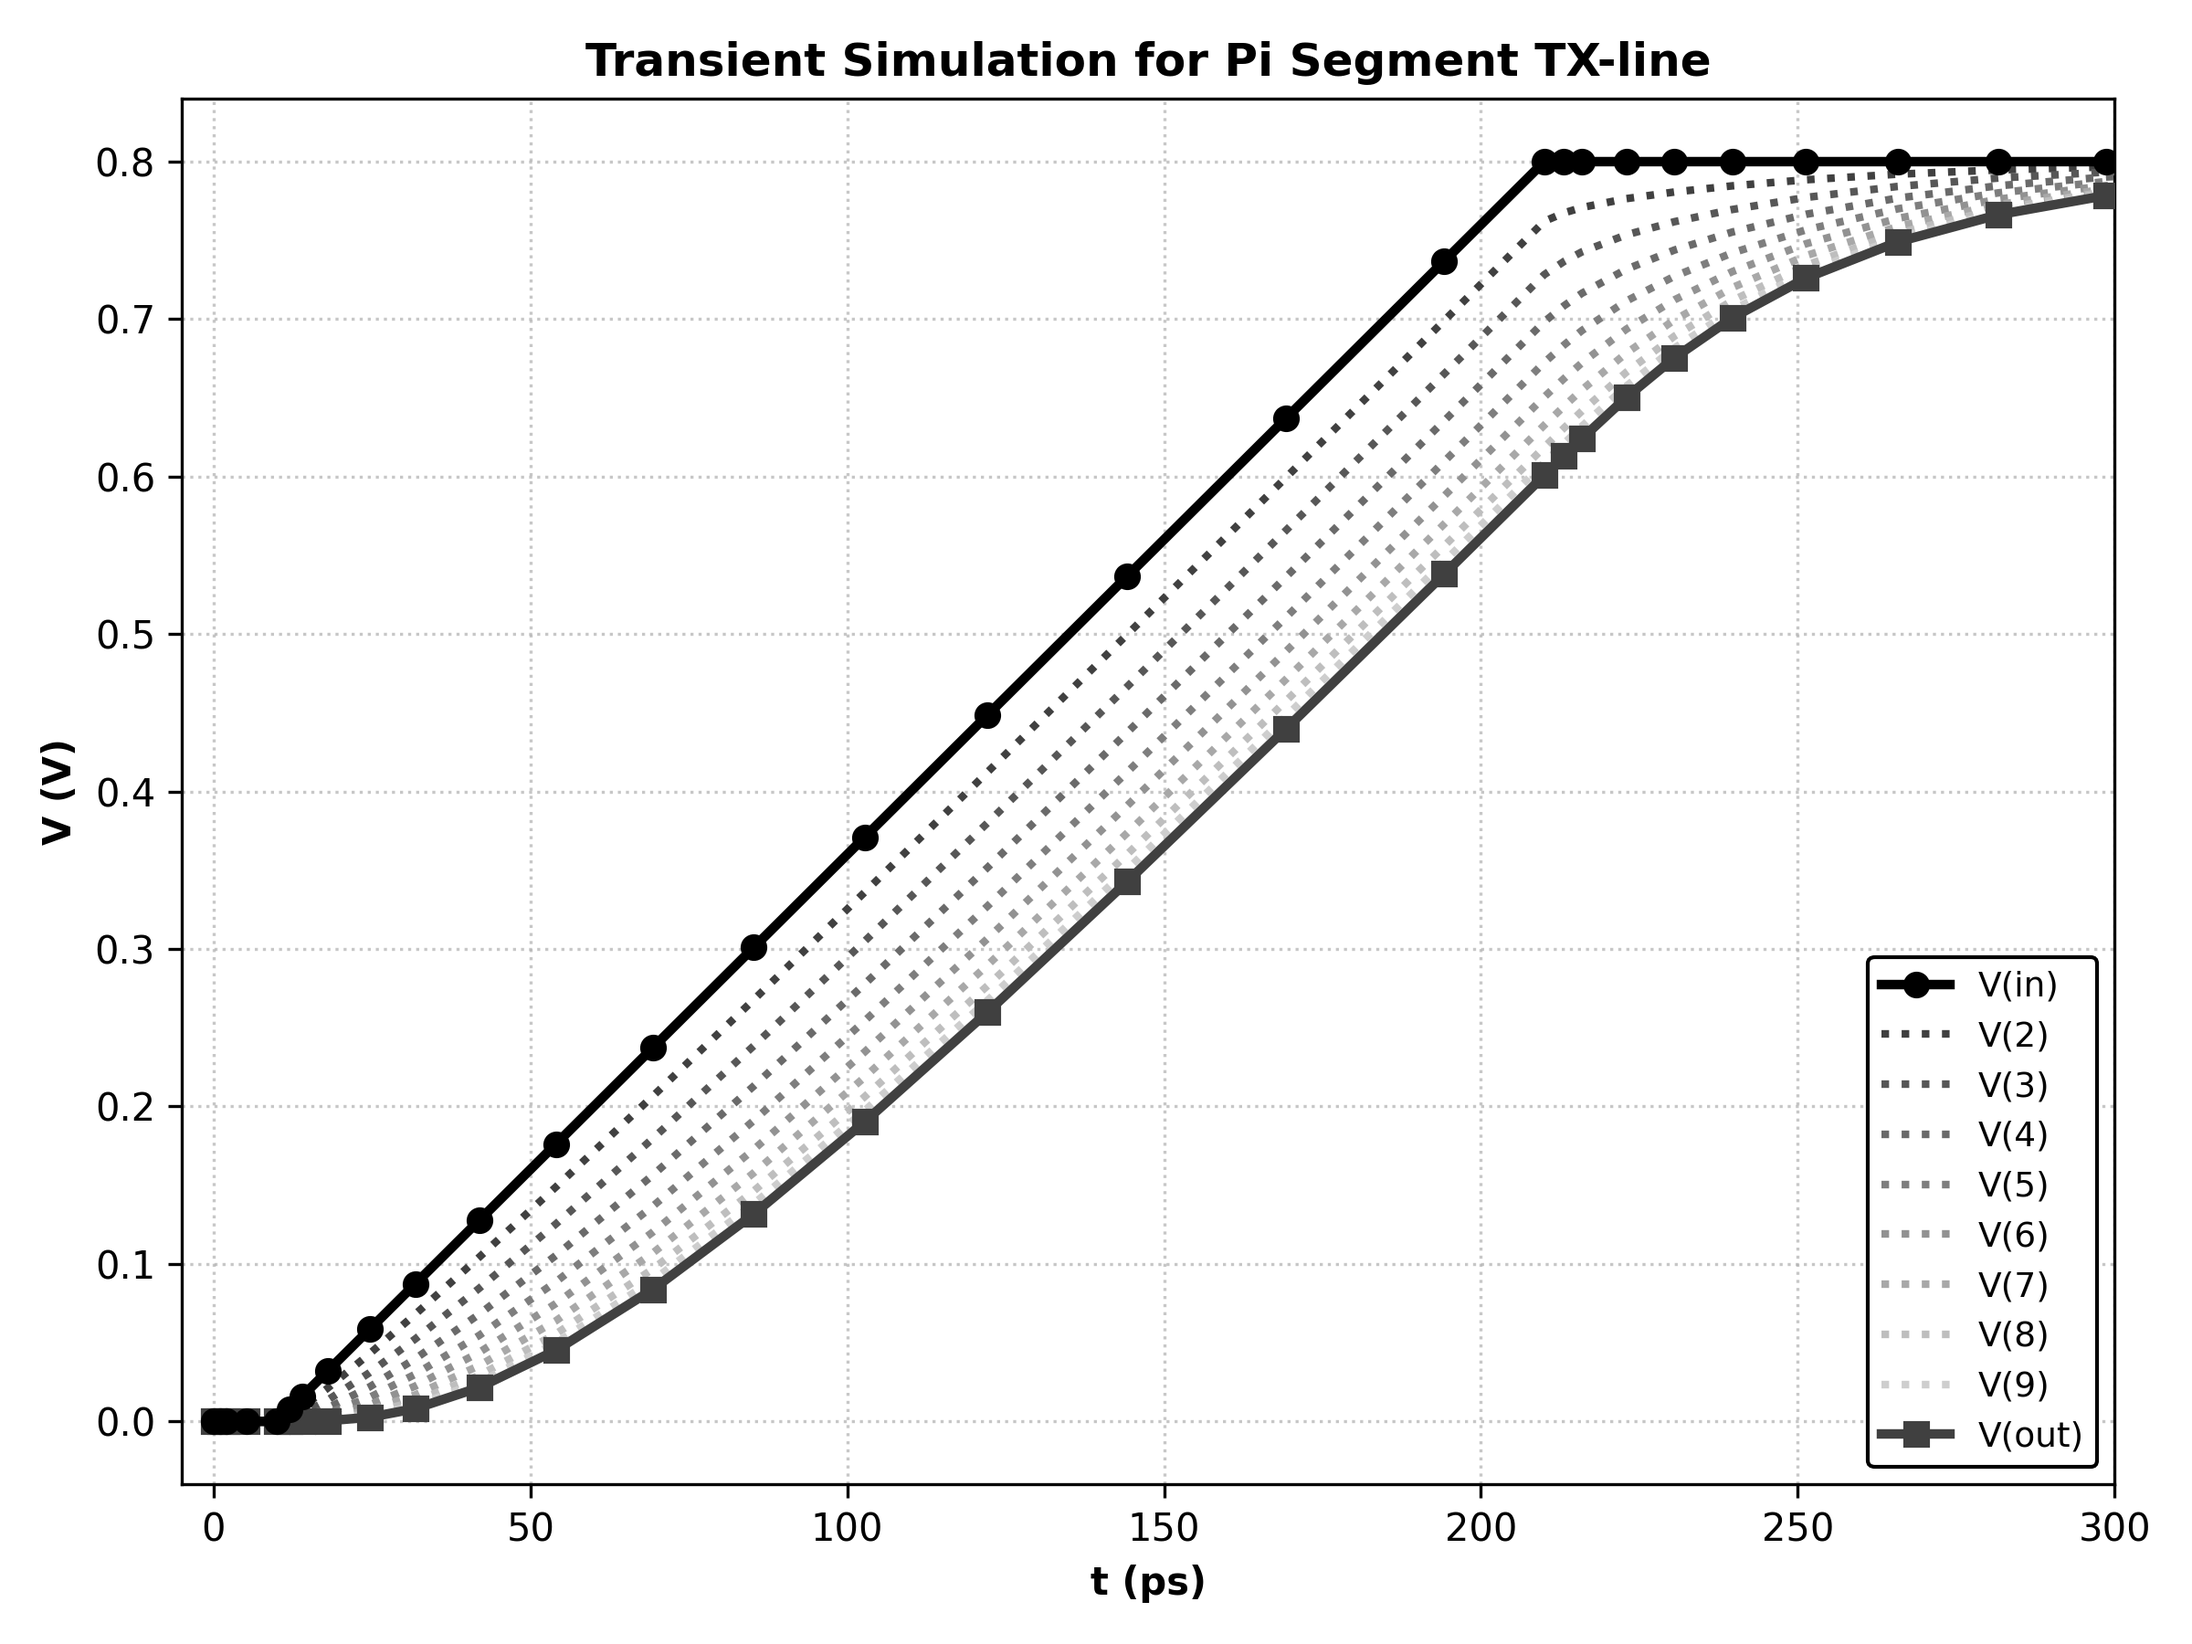
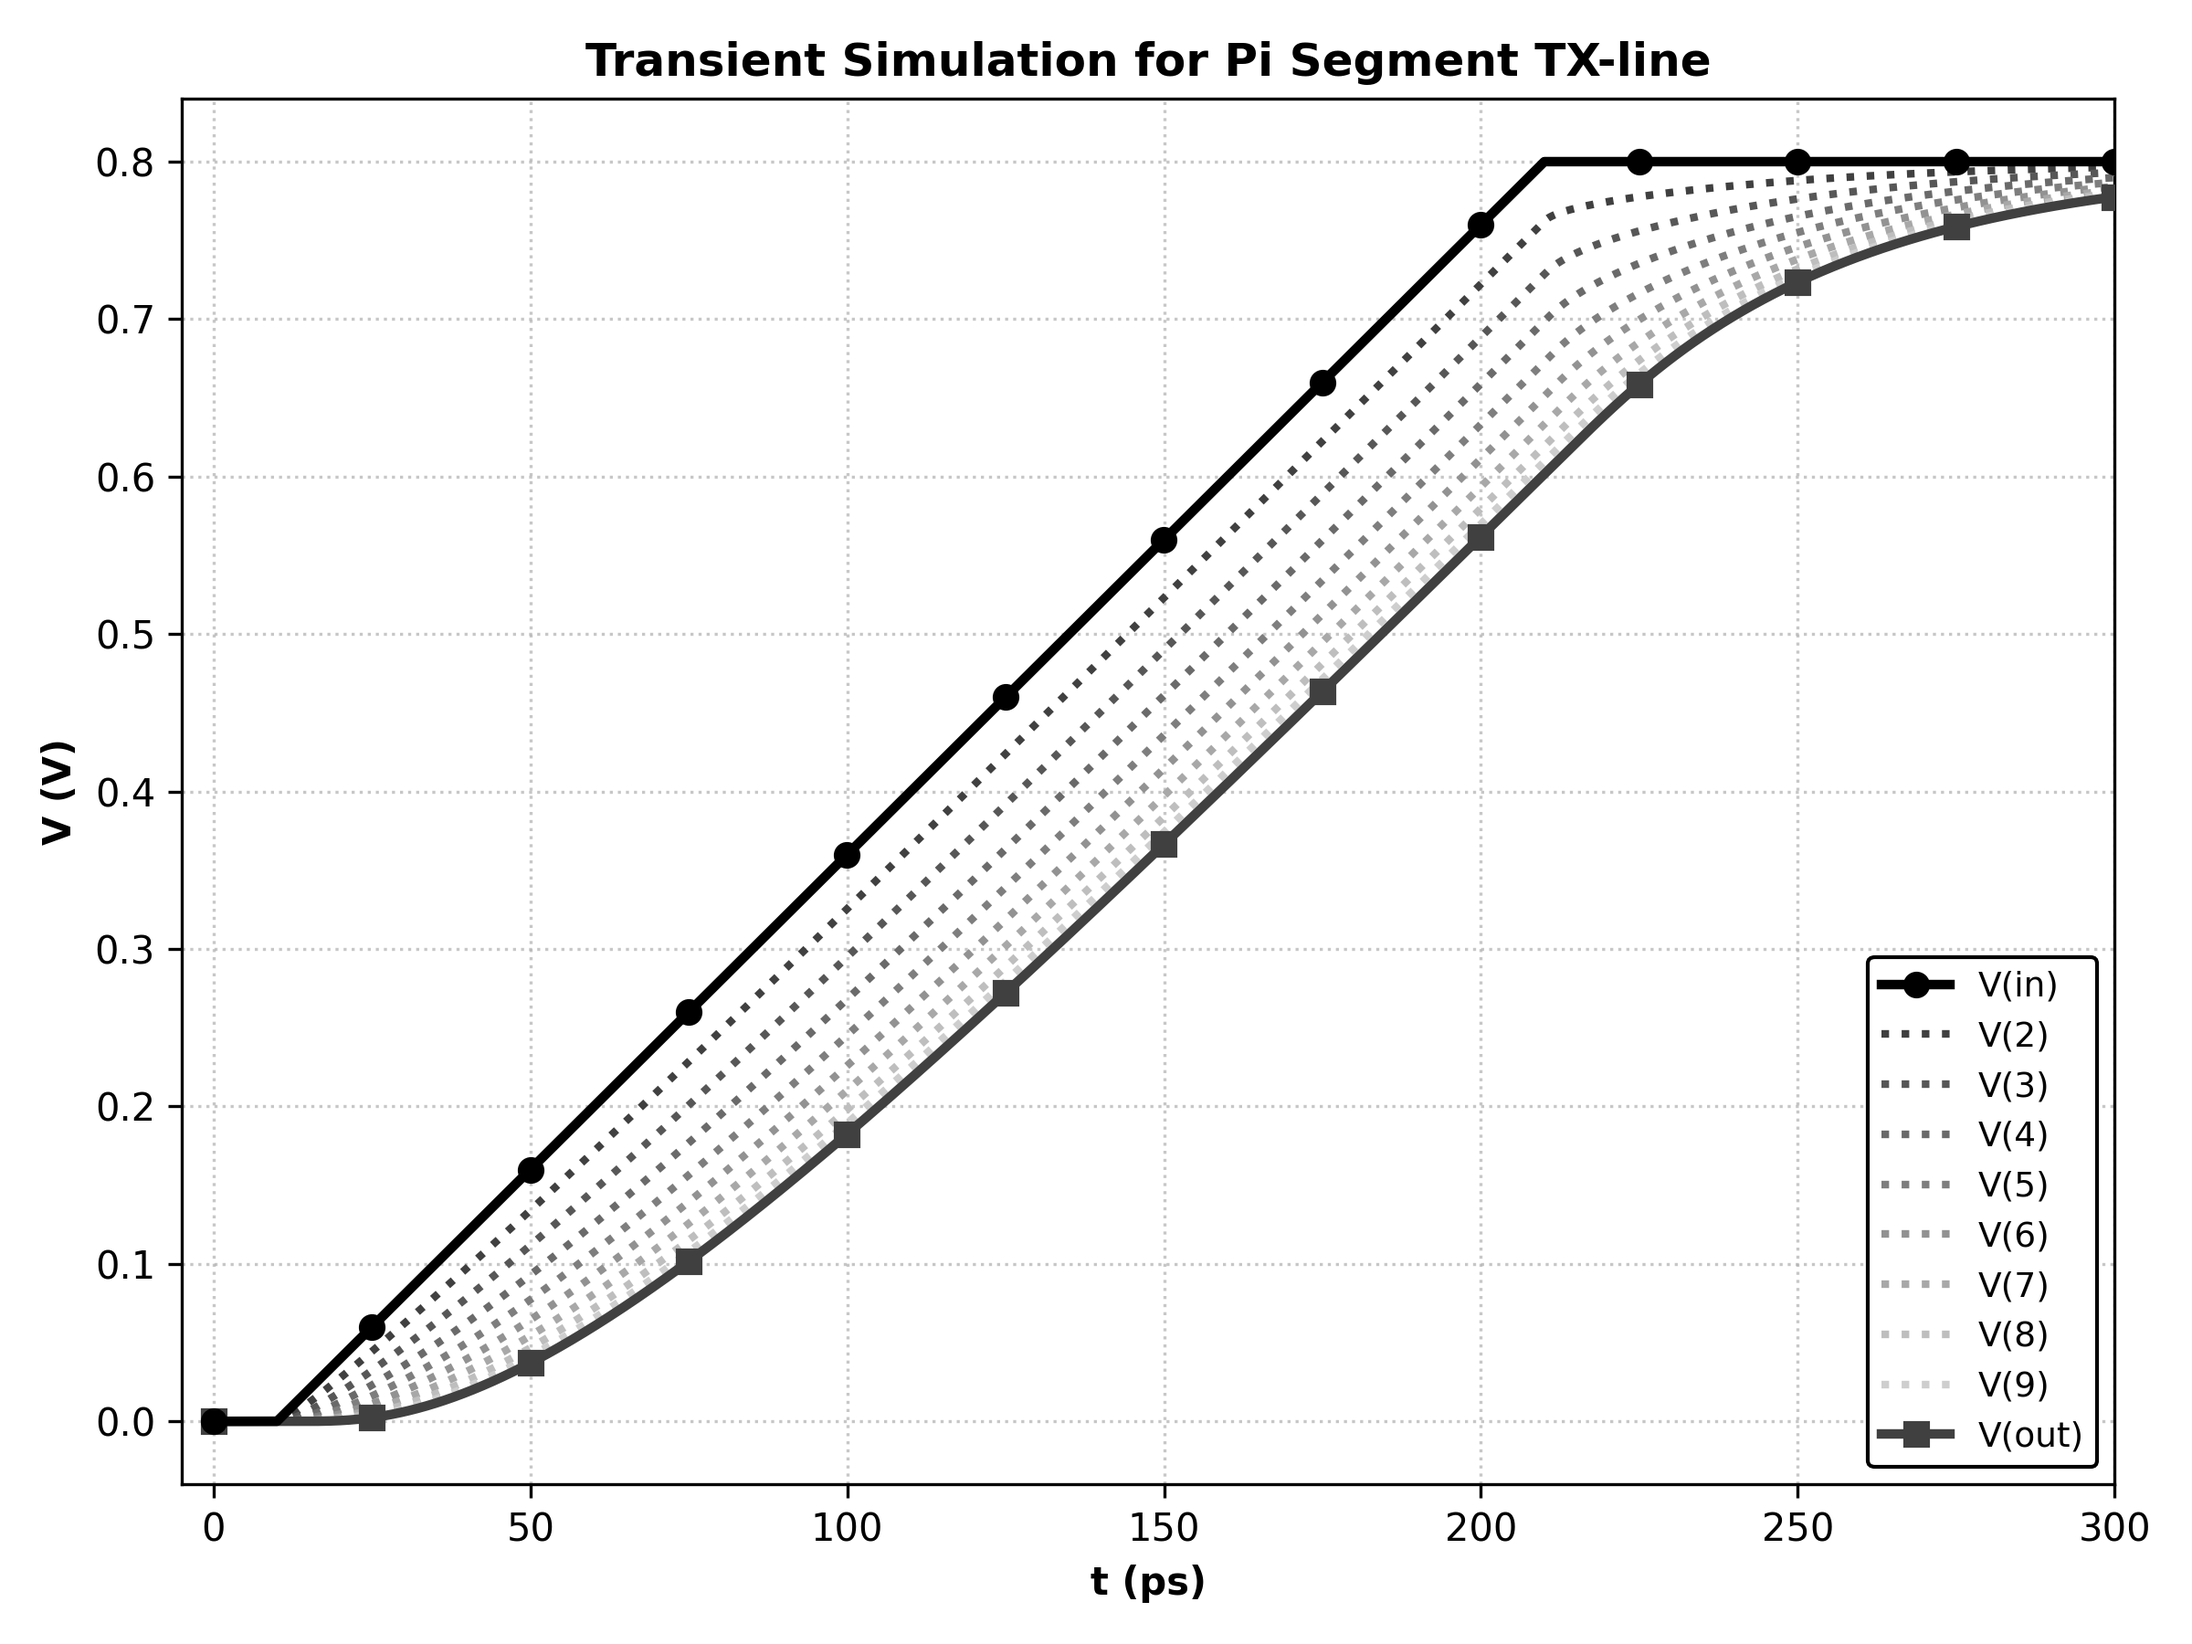
added exercise 7.5

diff --git a/tx_builer.py b/tx_builer.py
@@ -37,15 +37,22 @@ class tx_builder:
 
         self.n_list = list(range(1, n_max+1))
         self.df = pd.DataFrame(columns=['delay', 'temper', 'alter#'])
+        self.tr_df = pd.DataFrame(columns=['delay', 'temper', 'alter#'])
         self.tran_df = None
 
         for dir in ["logs", "graphs", "data", "md", "sp"]:
             pl.Path(dir).mkdir(parents=True, exist_ok=True)
         pass
 
-    def build_deck(self, n): #max in ps
+    def build_deck(self, n=None, rise_time=None, max_sim_time=None): #max in ps
+        if rise_time==None:
+            rise_time = self.tr # keep this for fixed tr
+        if n == None:
+            n = 10 #keep this for fixed n
+        if max_sim_time==None:
+            max_sim_time = self.max_time #<--------------------only have it change if updated by tr sweep
         header = f"""* TX-line {self.type} {n} segments
-V1 in 0 PULSE(0 0.8 10p {self.tr}p 5.7p 1600p 1600p)
+V1 in 0 PULSE(0 0.8 10p {rise_time}p 5.7p {max_sim_time}p {max_sim_time}p)
 .ic v(in)=0
         """
         
@@ -83,13 +90,13 @@ R1 mid out r='R/2'
                 subckt_out = "out"
             tx += f"X{i} {subckt_in} {subckt_out} 0 {self.type} R={seg_R} C={seg_C}\n"
 
-        tran = f".tran 0.001p {self.max_time}p\n"
+        step_size = max(0.01, max_sim_time / 10000)
+        tran = f".tran {step_size}p {max_sim_time}p\n"
         meas = f".meas tran delay trig v(in) val={self.v_trig} rise=1 targ v(out) val={self.v_trig} rise=1\n"
         
         footer = f"""
 .option post=2 
-* method from spk notes
-.option method=gear    
+.option delmax=0.01p  
 *tighter tolerance
 .option reltol=1e-6    
 .option absv=1e-6      
@@ -99,6 +106,43 @@ R1 mid out r='R/2'
         with open(self.sp_path, 'w') as sp:
             print(spice_str, file=sp)
         return
+
+    def get_delay_per_tr(self):
+        #build deck should now take in tr as a parameter
+        min_t = 0.1 #.1 ps
+        max_t = 1000# 1 second
+        self.tr_list = np.linspace(min_t, max_t, 40)
+        for tr in self.tr_list:
+            self.build_deck(rise_time=tr, max_sim_time=(10 + tr + 150)) #these are entered in ps 
+            subprocess.run(["hspice", self.sp_path, "-o", self.lis_path])
+            tr_df = hp.parse_mto(self.mt_path)  
+            tr_df['tr'] = tr #<--------------------------------in ps
+            print(f"for type = {self.type} and tr = {tr}")
+            print(tr_df)
+
+            self.tr_df = pd.concat([self.tr_df, tr_df], ignore_index=True)
+        
+        print("Final tr Df:")
+        print(self.tr_df)
+        return
+
+    def graph_delay_vs_tr(self, graph_dir:str="graphs"):
+        delay = self.tr_df["delay"]
+        delay = delay * 1e12 
+        tr_data = (self.tr_df["tr"].to_numpy()) #<----------- in ps
+
+        plt.figure(1)
+        graph.plot_series(
+            x_data=tr_data,
+            y_dict={"delay (ps)": delay},
+            xlabel="tr (ps)",
+            ylabel="Delay (ps)",
+            title=f"Delay vs. {self.type.capitalize()} Segments TX-line",
+            filename=f"{graph_dir}/{self.base_name}_delay_vs_tr.png"
+        )
+        plt.clf()
+        return
+
 
     def get_delay_per_n(self):
         for n in self.n_list:
@@ -115,6 +159,7 @@ R1 mid out r='R/2'
         print("Final Df:")
         print(self.df)
         return
+
         
     def get_transient(self):
         self.build_deck(self.n_tran)
@@ -146,44 +191,44 @@ R1 mid out r='R/2'
         plt.clf()
         return
 
-    def tran_graph_original(self, graph_dir:str="graphs"): #in ps
-        time_ps = self.tran_df['TIME'] * 1e12
-        y_dict = {}
-        y_dict["V(in)"] = self.tran_df['v(in']
-        y_dict["V(out)"] = self.tran_df['v(out']
+    # def tran_graph_original(self, graph_dir:str="graphs"): #in ps
+    #     time_ps = self.tran_df['TIME'] * 1e12
+    #     y_dict = {}
+    #     y_dict["V(in)"] = self.tran_df['v(in']
+    #     y_dict["V(out)"] = self.tran_df['v(out']
         
-        for i in range(2, self.n_tran):
-            col_name = f"v({i}"
-            if col_name in self.tran_df.columns:
-                y_dict[f"V({i})"] = self.tran_df[col_name]
+    #     for i in range(2, self.n_tran):
+    #         col_name = f"v({i}"
+    #         if col_name in self.tran_df.columns:
+    #             y_dict[f"V({i})"] = self.tran_df[col_name]
 
-        max_sim_time = max(time_ps)
-        # max_sim_time = max_time 
-        print("max_sim_time = ", time_ps)
+    #     max_sim_time = max(time_ps)
+    #     # max_sim_time = max_time 
+    #     print("max_sim_time = ", time_ps)
         
-        extra_x = { 
-            "0.5Vdd":  np.array([1, max_sim_time]),
-            "0.63Vdd":  np.array([1, max_sim_time]),
-        }
+    #     extra_x = { 
+    #         "0.5Vdd":  np.array([1, max_sim_time]),
+    #         "0.63Vdd":  np.array([1, max_sim_time]),
+    #     }
         
-        extra_y = { 
-            "0.5Vdd": np.array([0.4, 0.4]),
-            "0.63Vdd":  np.array([0.504, 0.504]),
-        }
+    #     extra_y = { 
+    #         "0.5Vdd": np.array([0.4, 0.4]),
+    #         "0.63Vdd":  np.array([0.504, 0.504]),
+    #     }
 
-        plt.figure(2)
-        graph.plot_series(
-            x_data=time_ps,
-            y_dict=y_dict,
-            # extra_x_dict=extra_x,
-            # extra_y_dict=extra_y,
-            xlabel="t (ps)",
-            ylabel="V (V)",
-            title=f"Transient Simulation for {self.type} Segment TX-line",
-            filename=f"{graph_dir}/{self.base_name}_tran.png"
-        )
-        plt.clf()
-        return
+    #     plt.figure(2)
+    #     graph.plot_series(
+    #         x_data=time_ps,
+    #         y_dict=y_dict,
+    #         # extra_x_dict=extra_x,
+    #         # extra_y_dict=extra_y,
+    #         xlabel="t (ps)",
+    #         ylabel="V (V)",
+    #         title=f"Transient Simulation for {self.type} Segment TX-line",
+    #         filename=f"{graph_dir}/{self.base_name}_tran.png"
+    #     )
+    #     plt.clf()
+    #     return
 
     def tabulate(self, data_dir:str="data"):
         self.df.to_csv(f"{data_dir}/{self.base_name}.csv", index=False)
@@ -198,6 +243,17 @@ R1 mid out r='R/2'
         print(small_df)
         small_md_str = small_df.to_markdown(index=False)
         with open(f"{data_dir}/{self.base_name}_small_table.md", 'w') as md:
+            print(small_md_str, file=md)
+        return
+
+    def tabulate_tr(self, data_dir:str="data"):
+        small_df = pd.DataFrame({
+            "tr": self.tr_df['tr'],
+            "Delay (ps)": self.tr_df['delay'] * 1e12
+        })
+        print(small_df)
+        small_md_str = small_df.to_markdown(index=False)
+        with open(f"{data_dir}/{self.base_name}_delay_vs_tr.md", 'w') as md:
             print(small_md_str, file=md)
         return
 
@@ -285,48 +341,60 @@ if __name__ == "__main__":
 
     # rise time = 5.7 ps, sim time = 150ps, vdd ratio = 0.63, graph these
     pi_builder = tx_builder(sp_filename="pi_tx_chain", type="pi", n_max=n_max, n_tran=n_tran, R=R, C=C, 
-                            vdd_ratio=0.63)
-    pi_builder.get_delay_per_n()
-    pi_builder.get_transient()
-    pi_builder.graph()
-    pi_builder.tran_graph()
-    pi_builder.tabulate()
+                            vdd_ratio=0.63) #testing with tr=2
+    # pi_builder.get_delay_per_n()
+    # pi_builder.get_transient()
+    # pi_builder.graph()
+    # pi_builder.tran_graph()
+    # pi_builder.tabulate()
 
+ 
     t_builder = tx_builder(sp_filename="t_tx_chain", type="T", n_max=n_max, n_tran=n_tran, R=R, C=C,
                             vdd_ratio=0.63)
-    t_builder.get_delay_per_n()
-    t_builder.get_transient()
-    t_builder.graph()
-    t_builder.tran_graph()
-    t_builder.tabulate()
+    # t_builder.get_delay_per_n()
+    # t_builder.get_transient()
+    # t_builder.graph()
+    # t_builder.tran_graph()
+    # t_builder.tabulate()
 
+ 
     # don't graph just get delay for vdd_ratio = 0.5
     pi_builder = tx_builder(sp_filename="pi_tx_chain_half", type="pi", n_max=n_max, n_tran=n_tran, R=R, C=C, 
                             vdd_ratio=0.5)
-    pi_builder.get_delay_per_n()
-    pi_builder.get_transient()
-    pi_builder.tabulate()
+    # pi_builder.get_delay_per_n()
+    # pi_builder.get_transient()
+    # pi_builder.tabulate()
+
+    #added for last experiment 
+    pi_builder.get_delay_per_tr()
+    pi_builder.graph_delay_vs_tr()
+    pi_builder.tabulate_tr()
 
     t_builder = tx_builder(sp_filename="t_tx_chain_half", type="T", n_max=n_max, n_tran=n_tran, R=R, C=C,
                             vdd_ratio=0.5)
-    t_builder.get_delay_per_n()
-    t_builder.get_transient()
-    t_builder.tabulate()
-    
-    # making rise time >> tr
-    # try 200 ps
-    hi_tr_pi_builder = tx_builder(sp_filename="pi_tx_chain_hi_tr", type="pi",n_max=n_max, n_tran=n_tran, R=R, C=C, 
-                            max_time=500, rise_time=200)
-    hi_tr_pi_builder.get_delay_per_n()
-    hi_tr_pi_builder.get_transient()
-    hi_tr_pi_builder.graph()
-    hi_tr_pi_builder.tran_graph(include_extras=False, x_limit=300)
-    hi_tr_pi_builder.tabulate()
+    # t_builder.get_delay_per_n()
+    # t_builder.get_transient()
+    # t_builder.tabulate()
 
-    hi_tr_t_builder = tx_builder(sp_filename="t_tx_chain_hi_tr", type="T", n_max=n_max, n_tran=n_tran, R=R, C=C,
-                                 max_time=500, rise_time=200)
-    hi_tr_t_builder.get_delay_per_n()
-    hi_tr_t_builder.get_transient()
-    hi_tr_t_builder.graph()
-    hi_tr_t_builder.tran_graph(include_extras=False, x_limit=300)
-    hi_tr_t_builder.tabulate()
+    # added for one last experiment
+    t_builder.get_delay_per_tr()
+    t_builder.graph_delay_vs_tr()
+    t_builder.tabulate_tr()
+
+    # # making rise time >> tr
+    # # try 200 ps
+    # hi_tr_pi_builder = tx_builder(sp_filename="pi_tx_chain_hi_tr", type="pi",n_max=n_max, n_tran=n_tran, R=R, C=C, 
+    #                         max_time=500, rise_time=200)
+    # hi_tr_pi_builder.get_delay_per_n()
+    # hi_tr_pi_builder.get_transient()
+    # hi_tr_pi_builder.graph()
+    # hi_tr_pi_builder.tran_graph(include_extras=False, x_limit=300)
+    # hi_tr_pi_builder.tabulate()
+
+    # hi_tr_t_builder = tx_builder(sp_filename="t_tx_chain_hi_tr", type="T", n_max=n_max, n_tran=n_tran, R=R, C=C,
+    #                              max_time=500, rise_time=200)
+    # hi_tr_t_builder.get_delay_per_n()
+    # hi_tr_t_builder.get_transient()
+    # hi_tr_t_builder.graph()
+    # hi_tr_t_builder.tran_graph(include_extras=False, x_limit=300)
+    # hi_tr_t_builder.tabulate()
